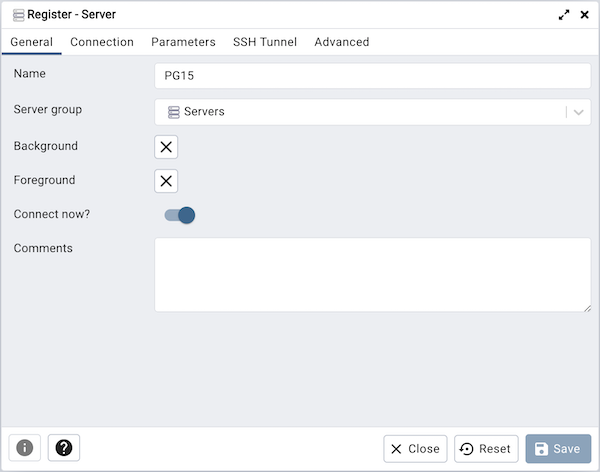
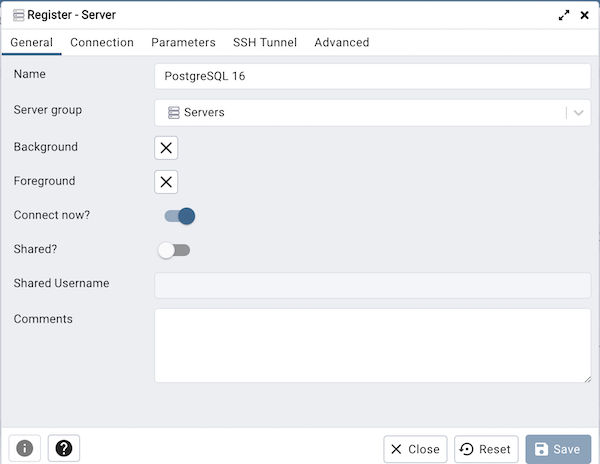
Allow setting custom username for shared servers, with default as username of server being shared. #6229

diff --git a/web/pgadmin/browser/server_groups/servers/static/js/server.ui.js b/web/pgadmin/browser/server_groups/servers/static/js/server.ui.js
@@ -36,6 +36,7 @@ export default class ServerSchema extends BaseUISchema {
       passexec: undefined,
       passexec_expiration: undefined,
       service: undefined,
+      shared_username: '',
       use_ssh_tunnel: false,
       tunnel_host: undefined,
       tunnel_port: 22,
@@ -128,6 +129,34 @@ export default class ServerSchema extends BaseUISchema {
           return !obj.isNew(state) && serverOwner != current_user.id;
         }, visible: function(){
           return current_user.is_admin && pgAdmin.server_mode == 'True';
+        },
+      },
+      {
+        id: 'shared_username', label: gettext('Shared Username'), type: 'text',
+        controlProps: { maxLength: 64},
+        mode: ['properties', 'create', 'edit'], deps: ['shared', 'username'],
+        readonly: (s)=>{
+          if(!this.origData.shared && s.shared) {
+            return false;
+          }
+          return true;
+        }, visible: (s)=>!obj.isShared(s),
+        depChange: (state, source, _topState, actionObj)=>{
+          let ret = {};
+          if(this.origData.shared) {
+            return ret;
+          }
+          if(source == 'username' && actionObj.oldState.username == state.shared_username) {
+            ret['shared_username'] = state.username;
+          }
+          if(source == 'shared') {
+            if(state.shared) {
+              ret['shared_username'] = state.username;
+            } else {
+              ret['shared_username'] = '';
+            }
+          }
+          return ret;
         },
       },
       {

diff --git a/web/pgadmin/static/js/SchemaView/DepListener.js b/web/pgadmin/static/js/SchemaView/DepListener.js
@@ -59,7 +59,8 @@ export default class DepListener {
     if(actionObj.listener?.callback) {
       state = this._getListenerData(state, actionObj.listener, actionObj);
     } else {
-      let allListeners = _.filter(this._depListeners, (entry)=>_.join(currPath, '|').startsWith(_.join(entry.source, '|')));
+      // adding a extra item in path to avoid incorrect matching like shared and shared_username
+      let allListeners = _.filter(this._depListeners, (entry)=>_.join(currPath.concat(['']), '|').startsWith(_.join(entry.source.concat(['']), '|')));
       if(allListeners) {
         for(const listener of allListeners) {
           state = this._getListenerData(state, listener, actionObj);

diff --git a/web/pgadmin/model/__init__.py b/web/pgadmin/model/__init__.py
@@ -33,7 +33,7 @@ import config
 #
 ##########################################################################
 
-SCHEMA_VERSION = 35
+SCHEMA_VERSION = 36
 
 ##########################################################################
 #
@@ -202,41 +202,10 @@ class Server(db.Model):
     tunnel_identity_file = db.Column(db.String(64), nullable=True)
     tunnel_password = db.Column(PgAdminDbBinaryString())
     shared = db.Column(db.Boolean(), nullable=False)
+    shared_username = db.Column(db.String(64), nullable=True)
     kerberos_conn = db.Column(db.Boolean(), nullable=False, default=0)
     cloud_status = db.Column(db.Integer(), nullable=False, default=0)
     connection_params = db.Column(MutableDict.as_mutable(types.JSON))
-
-    @property
-    def serialize(self):
-        """Return object data in easily serializable format"""
-        return {
-            "id": self.id,
-            "user_id": self.user_id,
-            "servergroup_id": self.servergroup_id,
-            "name": self.name,
-            "host": self.host,
-            "port": self.port,
-            "maintenance_db": self.maintenance_db,
-            "username": self.username,
-            "password": self.password,
-            "save_password": self.save_password,
-            "role": self.role,
-            "comment": self.comment,
-            "discovery_id": self.discovery_id,
-            "db_res": self.db_res,
-            "passexec_cmd": self.passexec_cmd,
-            "passexec_expiration": self.passexec_expiration,
-            "bgcolor": self.bgcolor,
-            "fgcolor": self.fgcolor,
-            "service": self.service,
-            "use_ssh_tunnel": self.use_ssh_tunnel,
-            "tunnel_host": self.tunnel_host,
-            "tunnel_port": self.tunnel_port,
-            "tunnel_authentication": self.tunnel_authentication,
-            "tunnel_identity_file": self.tunnel_identity_file,
-            "tunnel_password": self.tunnel_password,
-            "connection_params": self.connection_params
-        }
 
 
 class ModulePreference(db.Model):

diff --git a/web/pgadmin/browser/server_groups/servers/__init__.py b/web/pgadmin/browser/server_groups/servers/__init__.py
@@ -376,7 +376,7 @@ class ServerModule(sg.ServerGroupPluginModule):
                 host=data.host,
                 port=data.port,
                 maintenance_db=data.maintenance_db,
-                username=None,
+                username=data.shared_username,
                 save_password=0,
                 comment=None,
                 role=data.role,
@@ -814,6 +814,7 @@ class ServerNode(PGChildNodeView):
             'tunnel_authentication': 'tunnel_authentication',
             'tunnel_identity_file': 'tunnel_identity_file',
             'shared': 'shared',
+            'shared_username': 'shared_username',
             'kerberos_conn': 'kerberos_conn',
             'connection_params': 'connection_params'
         }
@@ -849,6 +850,10 @@ class ServerNode(PGChildNodeView):
                 status=400,
                 errormsg=gettext('Not a valid Host address')
             )
+
+        # remove the shared username if shared is updated to False
+        if 'shared' in data and data['shared'] is False:
+            data['shared_username'] = ''
 
         manager = get_driver(PG_DEFAULT_DRIVER).connection_manager(sid)
         conn = manager.connection()
@@ -1073,6 +1078,8 @@ class ServerNode(PGChildNodeView):
             'port': server.port,
             'db': server.maintenance_db,
             'shared': server.shared if config.SERVER_MODE else None,
+            'shared_username': server.shared_username
+            if config.SERVER_MODE else None,
             'username': server.username,
             'gid': str(server.servergroup_id),
             'group-name': sg.name if (sg and sg.name) else gettext('Servers'),

diff --git a/web/migrations/versions/9426ad06a63b_.py b/web/migrations/versions/9426ad06a63b_.py
@@ -1,0 +1,41 @@
+##########################################################################
+#
+# pgAdmin 4 - PostgreSQL Tools
+#
+# Copyright (C) 2013 - 2023, The pgAdmin Development Team
+# This software is released under the PostgreSQL Licence
+#
+##########################################################################
+
+""" Add the new column for shared server username and change
+autoincrement in server table
+Revision ID: 9426ad06a63b
+Revises: f656e56dfdc8
+Create Date: 2023-10-09 15:09:50.773035
+"""
+from alembic import op
+import sqlalchemy as sa
+
+
+# revision identifiers, used by Alembic.
+revision = '9426ad06a63b'
+down_revision = 'f656e56dfdc8'
+branch_labels = None
+depends_on = None
+
+
+def upgrade():
+    # Added sqlite_autoincrement to force sqlite use auto increment instead of
+    # last row id for next record. For future server table changes, we need to
+    # add table_kwargs={'sqlite_autoincrement': True} as a param to
+    # batch_alter_table
+    with op.batch_alter_table(
+            "server", table_kwargs={'sqlite_autoincrement': True}) as batch_op:
+        batch_op.alter_column('id', autoincrement=True)
+        batch_op.add_column(sa.Column('shared_username', sa.String(64), nullable=True))
+
+
+
+def downgrade():
+    # pgAdmin only upgrades, downgrade not implemented.
+    pass

diff --git a/web/pgadmin/utils/__init__.py b/web/pgadmin/utils/__init__.py
@@ -493,6 +493,7 @@ def dump_database_servers(output_file, selected_servers,
             add_value(attr_dict, "Role", server.role)
             add_value(attr_dict, "Comment", server.comment)
             add_value(attr_dict, "Shared", server.shared)
+            add_value(attr_dict, "SharedUsername", server.shared_username)
             add_value(attr_dict, "DBRestriction", server.db_res)
             add_value(attr_dict, "BGColor", server.bgcolor)
             add_value(attr_dict, "FGColor", server.fgcolor)
@@ -737,6 +738,8 @@ def load_database_servers(input_file, selected_servers,
                 obj.get("TunnelAuthentication", None)
 
             new_server.shared = obj.get("Shared", None)
+
+            new_server.shared_username = obj.get("SharedUsername", None)
 
             new_server.kerberos_conn = obj.get("KerberosAuthentication", None)
 

diff --git a/web/pgadmin/tools/import_export_servers/__init__.py b/web/pgadmin/tools/import_export_servers/__init__.py
@@ -130,7 +130,8 @@ def load_servers():
                 data = json.loads(j.read())
 
                 # Validate the json file and data
-                errmsg = validate_json_data(data, False)
+                errmsg = validate_json_data(
+                    data, current_user.has_role("Administrator"))
                 if errmsg is not None:
                     return internal_server_error(errmsg)
 

diff --git a/docs/en_US/server_dialog.rst b/docs/en_US/server_dialog.rst
@@ -44,6 +44,9 @@ Use the fields in the *General* tab to identify the server:
   Please note that once the server is shared, it's icon is changed in the
   object explorer.
 
+* Use the *Shared Username* field to fill the username of the shared server
+  connection. By default, it will take the username of the server being shared.
+
 * Provide a comment about the server in the *Comments* field.
 
 Click the *Connection* tab to continue.
